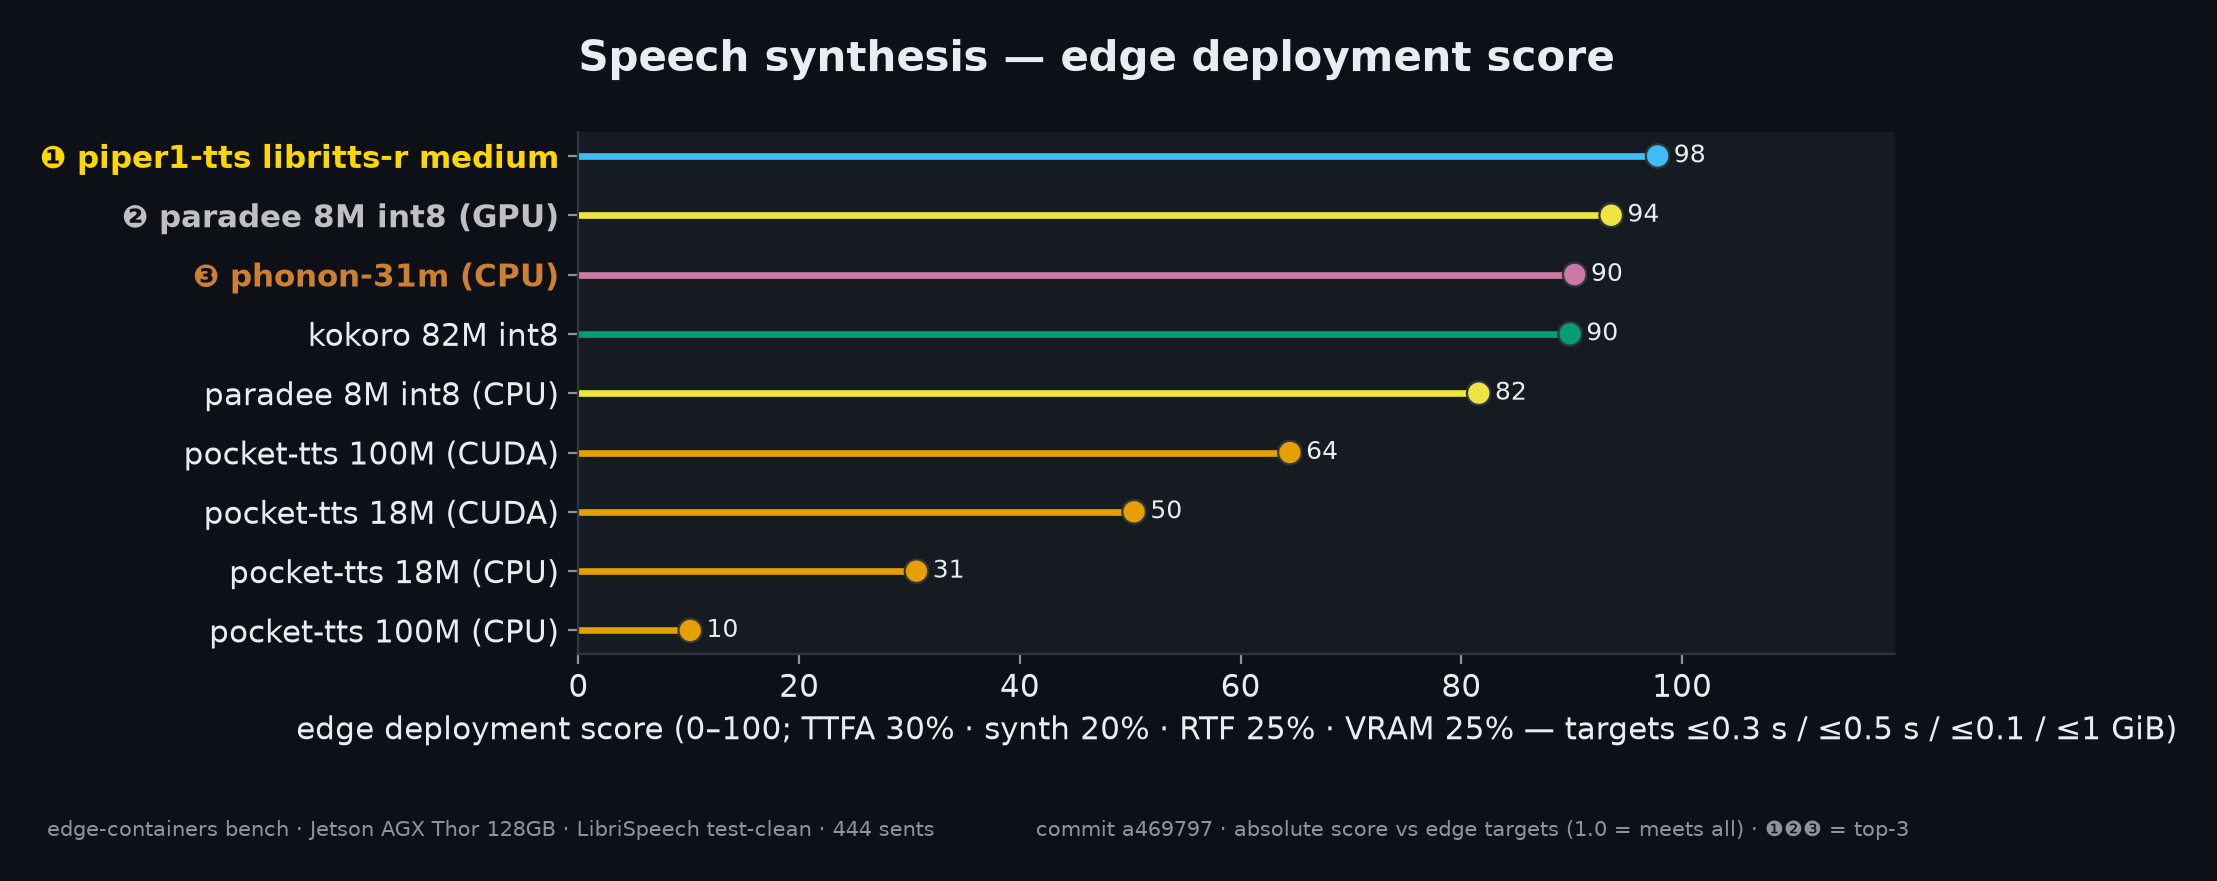
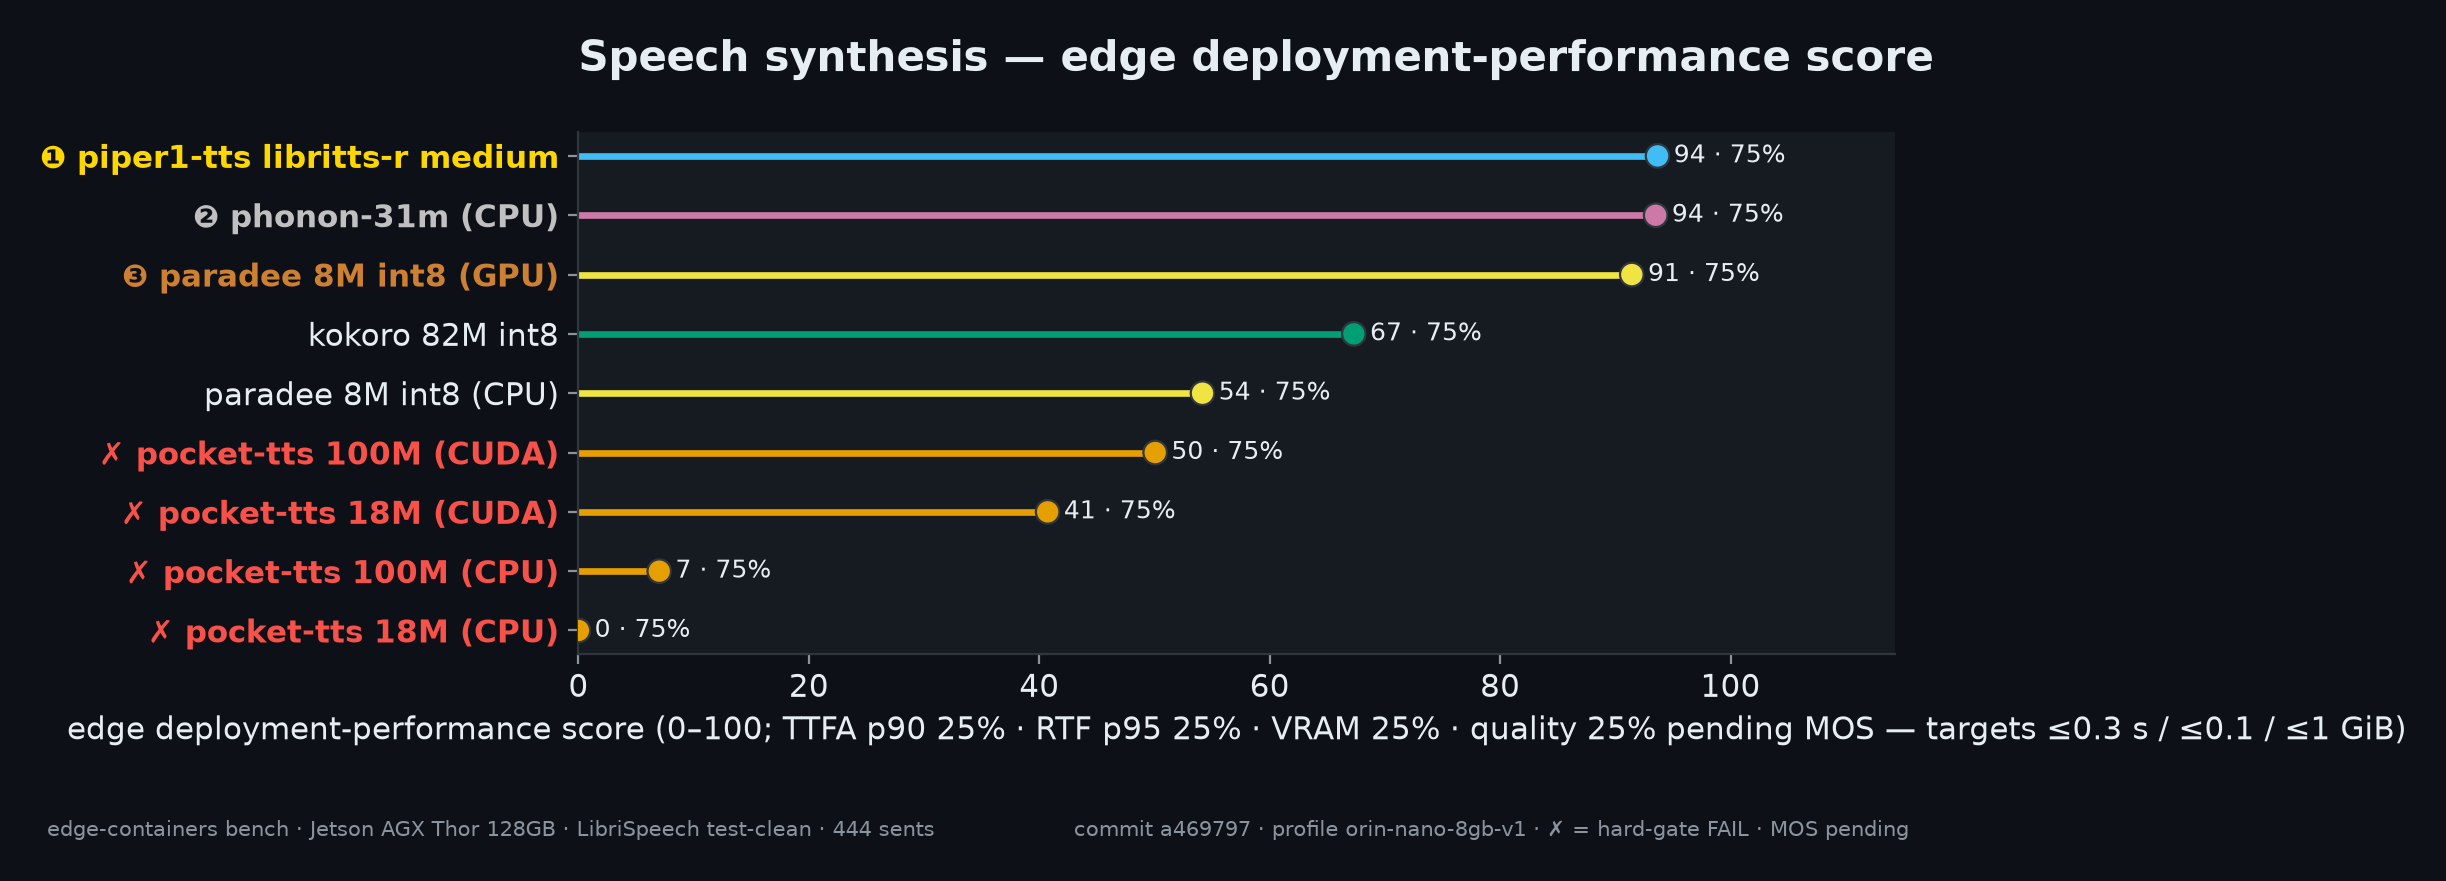
edge score v2: hard gates, tail metrics, coverage, MOS slot, versioned profiles
Review feedback implemented:
- hard deployment gates separate from the score (mem >4GiB, STT p95
  latency >1.5s, TTS TTFA p90 >1.5s, WER >10%): violations sink below
  passing engines, red bold x-marked, no medals — suitability and
  performance are independent outputs. STT: 8 tail-latency FAILs;
  TTS: all four pocket rows FAIL (TTFA p90 / memory).
- latency + RTF vectors bind the TAIL (p95; TTFA p90 = only percentile
  recorded) — averages hide the spikes that break interactive voice.
- TTS quality vector (MOS >=4.0 good / <=2.5 unusable, 25%) added but
  unmeasured: chart renamed to deployment-PERFORMANCE score, every
  label reports coverage (94 . 75%) — unmeasured is provisional, never
  silently irrelevant.
- synth-latency dropped from TTS: it is RTF re-measured per sentence
  (same bottleneck, double-counted). Weights now match the proposal:
  STT WER 35 / latency 20 / RTF 20 / mem 25; TTS quality 25 / TTFA 25 /
  RTF 25 / mem 25.
- profiles VERSIONED (orin-nano-8gb-v1 in EDGE_PROFILES): anchors or
  weights change => v2, never a silent rewrite of historical scores;
  profile name shown in each footer.
- direction-aware scoring (target > worst = higher-is-better) for MOS.

diff --git a/bench/charts.py b/bench/charts.py
@@ -212,6 +212,7 @@ def _lollipop(
     xlabel: str,
     ticks: list | None = None,
     log: bool | None = None,
+    value_labels: list | None = None,
 ):
     """Stem + dot chart — the one honest form for any roster size: on a log
     axis a bar starts at an arbitrary minimum and reads as length anyway,
@@ -253,7 +254,8 @@ def _lollipop(
                 zorder=4,
             )
     for i, v in enumerate(values):
-        _value_label(ax, label_x[i], i, fmt.format(v), mode)
+        txt = value_labels[i] if value_labels else fmt.format(v)
+        _value_label(ax, label_x[i], i, txt, mode)
     ax.set_yticks(y, names)
     ax.invert_yaxis()
     _style_medals(ax, names)
@@ -826,78 +828,154 @@ def tts_heatmap(rows: list[dict], mode: Mode = DARK):
 
 
 # -------------------------------------------------------------- shared
-# Edge deployment vectors: metric -> (target, worst, weight). The score is
-# ABSOLUTE (not cohort-relative): 1.0 at/better than the target, 0.0 at the
-# worst-acceptable bound, log-linear in between — an engine's score does not
-# shift when other engines are added, and the anchors are deployment facts
-# (HA's 300 ms gate, the Orin Nano 8 GB voice budget), not chart artifacts.
-# Vectors map to what each task actually measures: an STT engine's TTFA is
-# its offline latency, a TTS engine's throughput is its synth latency.
-EDGE_VECTORS = {
-    "stt": {
-        # quality: ≤2% WER is production grade, ≥10% unusable for voice
-        "wer": (0.02, 0.10, 0.35),
-        # responsiveness: instant follow-ups … 1.5 s before the user hangs up
-        "offline_latency_s": (0.3, 1.5, 0.20),
-        # throughput headroom: 10× realtime … barely realtime
-        "rtf": (0.10, 1.0, 0.20),
-        # VRAM: fits the Orin Nano 8 GB voice budget … half the board
-        "mem_peak_mib": (1024, 4096, 0.25),
-    },
-    "tts": {
-        # responsiveness: the 300 ms assistant gate … 1.5 s
-        "ttfa_s": (0.3, 1.5, 0.30),
-        # per-sentence throughput: half-second sentences … 2.5 s
-        "synth_latency_s": (0.5, 2.5, 0.20),
-        "rtf": (0.10, 1.0, 0.25),
-        "mem_peak_mib": (1024, 4096, 0.25),
+# -------------------------------------------------------------- shared
+# Edge deployment profiles — VERSIONED. Changing anchors, weights, gates or
+# methodology means a NEW profile name (orin-nano-8gb-v2), never a silent
+# edit: a 98-point engine must stay a meaningful 98 six months and twenty
+# engines later.
+#
+# Vector tuple: (target, worst, weight). Score is ABSOLUTE, not
+# cohort-relative — 1.0 at/beyond the target, 0.0 at the worst-acceptable
+# bound, log-linear in between — so adding engines never rewrites history
+# and the anchors are deployment facts (HA's 300 ms gate, the Orin Nano
+# 8 GB voice budget), not chart artifacts. target > worst marks a
+# higher-is-better metric (e.g. MOS).
+#
+# Latency/RTF vectors bind the TAIL (p95; TTFA p90 is the only percentile
+# recorded) — averages hide the multi-second spikes that make an
+# interactive voice assistant feel broken. Memory is the measured peak.
+#
+# Coverage: weights renormalize over the vectors a row MEASURES, and the
+# chart reports coverage next to the score — an unmeasured vector makes a
+# score provisional, it is never silently treated as irrelevant. The TTS
+# quality vector (MOS) is pending a listening test: until then every TTS
+# score is a deployment-PERFORMANCE score at 75% coverage.
+#
+# Hard gates are separate from the score: violating one means UNDEPLOYABLE
+# for the target regardless of the aggregate (a 99-quality engine that
+# does not fit in memory must not outrank one that fits). Passing engines
+# rank by score; failures sink below them, marked ✗.
+#
+# The synth-latency vector was dropped from TTS: it is RTF re-measured per
+# sentence (same measurement, same bottleneck) and double-counted
+# throughput. RTF + TTFA + (pending) MOS capture different aspects.
+EDGE_PROFILES = {
+    "orin-nano-8gb-v1": {
+        "stt": {
+            "vectors": {
+                # quality: corpus WER; ≤2% production grade, ≥10% unusable
+                "wer": (0.02, 0.10, 0.35),
+                # responsiveness, p95 tail: instant follow-ups … lost user.
+                # Conservative final-latency proxy: true streaming engines'
+                # final latency is their chunk lookahead (160 ms), so this
+                # over-penalizes them until a streaming-latency probe lands.
+                "offline_latency_s_p95": (0.3, 1.5, 0.20),
+                # throughput headroom, p95 tail: 10× realtime … barely realtime
+                "rtf_p95": (0.10, 1.0, 0.20),
+                # VRAM: fits the Orin Nano 8 GB voice budget … half the board
+                "mem_peak_mib": (1024, 4096, 0.25),
+            },
+            "gates": {  # hard upper bounds (lower-is-better metrics)
+                "wer": 0.10,
+                "offline_latency_s_p95": 1.5,
+                "mem_peak_mib": 4096,
+            },
+        },
+        "tts": {
+            "vectors": {
+                # naturalness: MOS ≥4.0 good, ≤2.5 unusable — PENDING a
+                # listening test (drives the 75% coverage on TTS scores)
+                "tts_mos": (4.0, 2.5, 0.25),
+                # responsiveness on the tail (p90 = only percentile recorded)
+                "ttfa_s_p90": (0.3, 1.5, 0.25),
+                # sustained generation efficiency, p95 tail
+                "rtf_p95": (0.10, 1.0, 0.25),
+                "mem_peak_mib": (1024, 4096, 0.25),
+            },
+            "gates": {
+                "ttfa_s_p90": 1.5,
+                "mem_peak_mib": 4096,
+            },
+        },
     },
 }
+EDGE_PROFILE = "orin-nano-8gb-v1"
 
 
-def _edge_score(row: dict, task: str) -> float | None:
-    """Weighted edge-deployment score in [0, 1]; weights renormalized over
-    the vectors the row actually has, so a missing probe never penalizes."""
+def _edge_vector_score(v: float, target: float, worst: float) -> float:
+    """Log-linear anchor score in [0, 1]; direction from target/worst order."""
     import math
 
-    total = wsum = 0.0
-    for metric, (target, worst, weight) in EDGE_VECTORS[task].items():
+    if target > worst:  # higher is better (MOS)
+        if v >= target:
+            return 1.0
+        if v <= worst:
+            return 0.0
+        return math.log(v / worst) / math.log(target / worst)
+    if v <= target:
+        return 1.0
+    if v >= worst:
+        return 0.0
+    return math.log(worst / v) / math.log(worst / target)
+
+
+def _edge_eval(row: dict, task: str) -> tuple[float, float, list[str]]:
+    """(score 0-100, coverage 0-1, failed gate descriptions)."""
+    prof = EDGE_PROFILES[EDGE_PROFILE][task]
+    total = wsum = total_weight = 0.0
+    for metric, (target, worst, weight) in prof["vectors"].items():
+        total_weight += weight
         v = _matrix._metric(row, metric)
         if v is None:
             continue
         wsum += weight
-        if v <= target:
-            total += weight
-        elif v < worst:
-            total += weight * math.log(worst / v) / math.log(worst / target)
-    return total / wsum if wsum else None
+        total += weight * _edge_vector_score(v, target, worst)
+    score = 100 * total / wsum if wsum else None
+    failed = []
+    for metric, limit in prof["gates"].items():
+        v = _matrix._metric(row, metric)
+        if v is not None and v > limit:
+            failed.append(f"{metric}={v:.4g}>{limit:g}")
+    return score, (wsum / total_weight if total_weight else 0.0), failed
 
 
 def _edge_chart(rows: list[dict], task: str, mode: Mode):
-    scored = [(r, _edge_score(r, task)) for r in rows]
-    scored = [(r, s) for r, s in scored if s is not None]
-    if len(scored) < 2:
+    evals = []
+    for r in rows:
+        score, cov, failed = _edge_eval(r, task)
+        if score is not None:
+            evals.append((r, score, cov, failed))
+    if len(evals) < 2:
         return None
-    scored.sort(key=lambda x: -x[1])
+    # passing engines rank by score; gate failures sink below, marked ✗
+    evals.sort(key=lambda e: (bool(e[3]), -e[1]))
     plt = _plt()
-    fig, ax = plt.subplots(figsize=_figsize(len(scored), 4.2, 0.27))
+    fig, ax = plt.subplots(figsize=_figsize(len(evals), 4.2, 0.27))
     apply(fig, ax)
-    names = _labels(
-        [r for r, _ in scored],
-        ranks={id(r): i for i, (r, _) in enumerate(scored[:3], 1)},
-    )
-    vals = [s * 100 for _, s in scored]
-    colors = [row_color(r) for r, _ in scored]
+    passing = [e for e in evals if not e[3]]
+    ranks = {id(e[0]): i for i, e in enumerate(passing[:3], 1)}
+    labels_raw = _labels([e[0] for e in evals], ranks=ranks)
+    names = [("✗ " if e[3] else "") + b for e, b in zip(evals, labels_raw)]
+    vals = [e[1] for e in evals]
+    colors = [row_color(e[0]) for e in evals]
+    value_labels = [
+        f"{s:.0f}" + ("" if cov > 0.999 else f" · {cov:.0%}") for _, s, cov, _f in evals
+    ]
     if task == "stt":
         xlabel = (
-            "edge deployment score (0–100; WER 35% · latency 20% · RTF 20% · "
-            "VRAM 25% — targets ≤2% / ≤0.3 s / ≤0.1 / ≤1 GiB)"
+            "edge deployment score (0–100; WER 35% · latency p95 20% · RTF p95 "
+            "20% · VRAM 25% — targets ≤2% / ≤0.3 s / ≤0.1 / ≤1 GiB)"
         )
+        title = "Speech recognition — edge deployment score"
+        footer = f" · profile {EDGE_PROFILE} · ✗ = hard-gate FAIL"
     else:
         xlabel = (
-            "edge deployment score (0–100; TTFA 30% · synth 20% · RTF 25% · "
-            "VRAM 25% — targets ≤0.3 s / ≤0.5 s / ≤0.1 / ≤1 GiB)"
+            "edge deployment-performance score (0–100; TTFA p90 25% · RTF p95 "
+            "25% · VRAM 25% · quality 25% pending MOS — targets ≤0.3 s / "
+            "≤0.1 / ≤1 GiB)"
         )
+        title = "Speech synthesis — edge deployment-performance score"
+        footer = f" · profile {EDGE_PROFILE} · ✗ = hard-gate FAIL · MOS pending"
     _lollipop(
         ax,
         names,
@@ -907,19 +985,20 @@ def _edge_chart(rows: list[dict], task: str, mode: Mode):
         "{:.0f}",
         xlabel,
         log=False,
+        value_labels=value_labels,
     )
-    _title(
-        ax,
-        "Speech "
-        + ("recognition" if task == "stt" else "synthesis")
-        + " — edge deployment score",
-    )
+    for t, lab in zip(ax.get_yticklabels(), names):
+        if lab.startswith("✗"):
+            t.set_color(mode.red)
+            t.set_fontweight("bold")
+        else:
+            for rank, medal in _MEDAL.items():
+                if lab.startswith(medal):
+                    t.set_fontweight("bold")
+                    t.set_color(MEDAL_COLORS[rank])
+    _title(ax, title)
     fig.tight_layout(rect=(0, 0.08, 1, 1))
-    _footer_common(
-        fig,
-        rows,
-        extra=" · absolute score vs edge targets (1.0 = meets all) · ❶❷❸ = top-3",
-    )
+    _footer_common(fig, rows, extra=footer)
     return fig
 
 

diff --git a/README.md b/README.md
@@ -132,7 +132,7 @@ tegrastats module draw over each engine's window; the packed-CPU engine has none
 (hollow point, idle draw) in the power chart.*
 
 <p align="center">
-<img src="assets/benchmarks/stt/stt-edge.png" alt="Speech recognition — edge deployment ranking (WER · latency · RTF · VRAM)" width="100%">
+<img src="assets/benchmarks/stt/stt-edge.png" alt="Speech recognition — edge deployment score (WER · latency p95 · RTF p95 · VRAM; profile orin-nano-8gb-v1)" width="100%">
 </p>
 
 <p align="center">
@@ -182,7 +182,7 @@ chunk; single-chunk engines (paradee, piper1-tts) deliver at synthesis completio
 their TTFA equals the synth p50/p90.*
 
 <p align="center">
-<img src="assets/benchmarks/tts/tts-edge.png" alt="Speech synthesis — edge deployment ranking (TTFA · synth · RTF · VRAM)" width="100%">
+<img src="assets/benchmarks/tts/tts-edge.png" alt="Speech synthesis — edge deployment-performance score (TTFA p90 · RTF p95 · VRAM; quality/MOS vector pending)" width="100%">
 </p>
 
 <p align="center">
